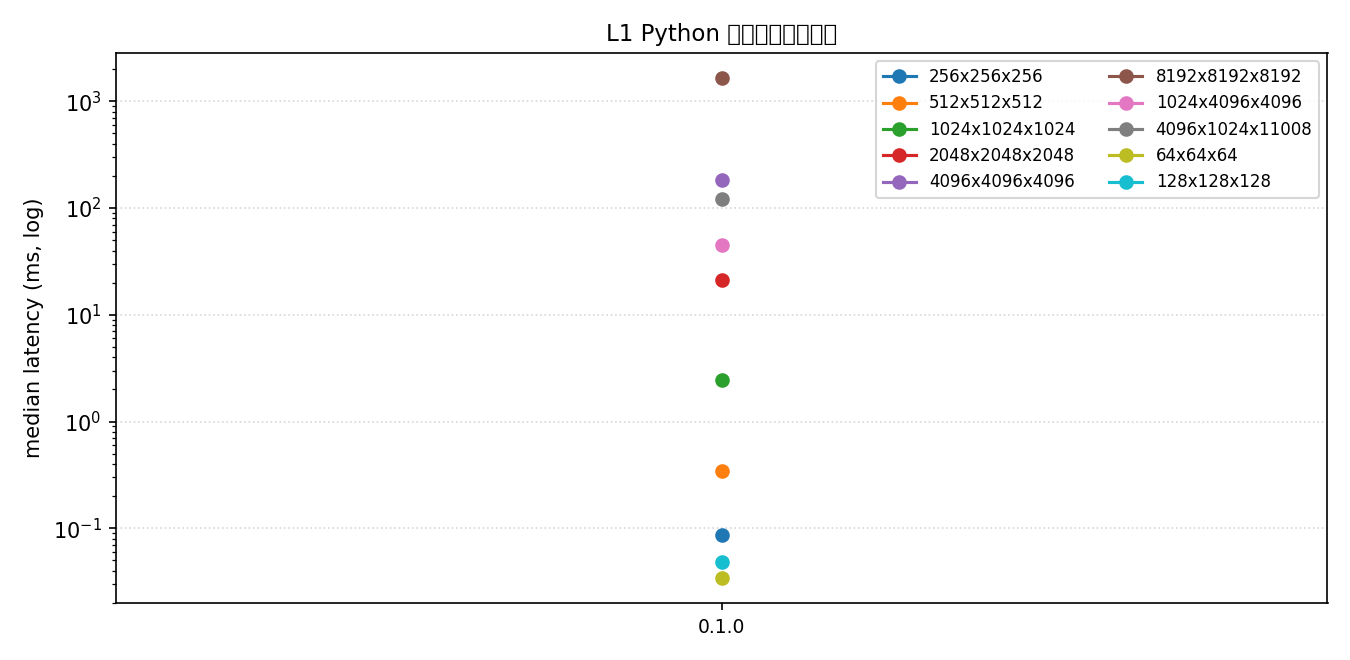
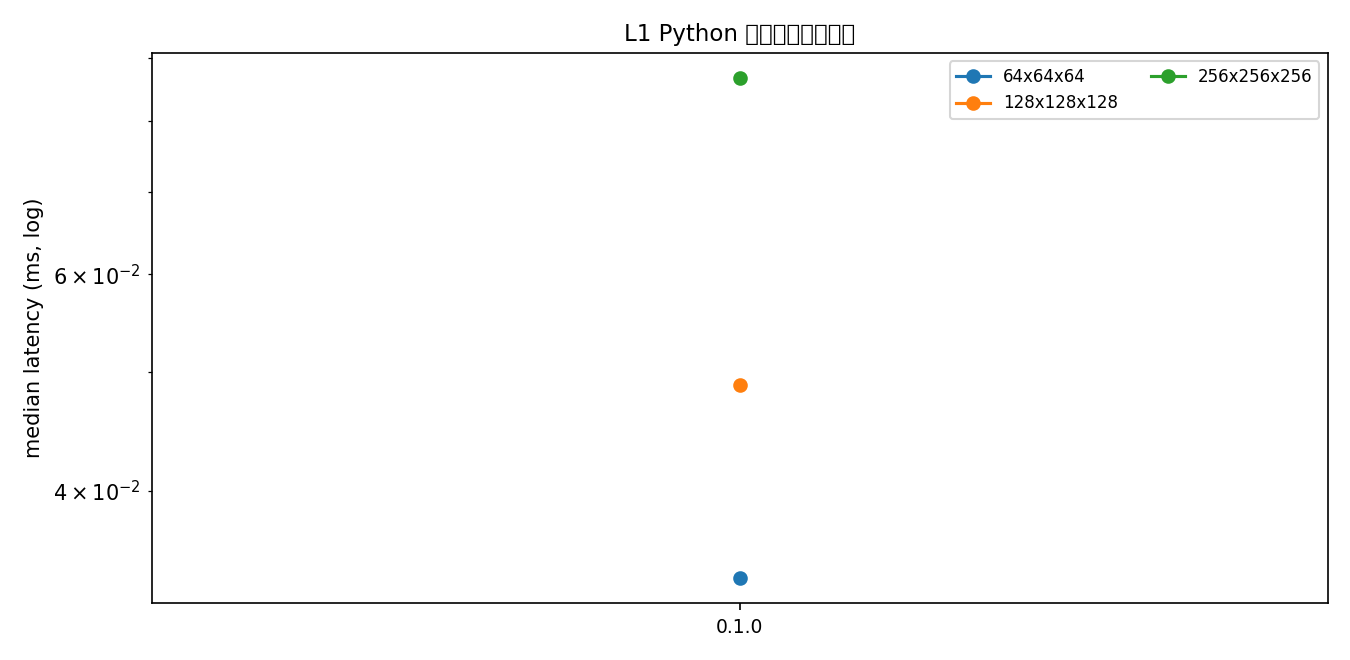
bench(gemm): regenerate the sample pages from the clean result set
an earlier python-tier run measured on a busy device had resurfaced
through a stale copy in the bind mount; the pages now render exactly
the two committed sample documents

diff --git a/docs/benchmarks/gemm-fp32.md b/docs/benchmarks/gemm-fp32.md
@@ -7,23 +7,9 @@
 
 | 形状 (m×k×n) | 基线 ms | flash-train ms | 加速比 |
 |---|---:|---:|---:|
-| 64x64x64 | 0.021 | 0.040 | x0.54 |
-| 64x64x64 | 0.021 | 0.034 | x0.63 |
 | 64x64x64 | 0.019 | 0.034 | x0.56 |
-| 128x128x128 | 0.019 | 0.061 | x0.31 |
-| 128x128x128 | 0.019 | 0.050 | x0.38 |
 | 128x128x128 | 0.017 | 0.049 | x0.35 |
-| 256x256x256 | 0.022 | 0.090 | x0.25 |
-| 256x256x256 | 0.021 | 0.184 | x0.12 |
-| 256x256x256 | 0.019 | 0.089 | x0.22 |
 | 256x256x256 | 0.019 | 0.087 | x0.22 |
-| 512x512x512 | 0.031 | 0.345 | x0.09 |
-| 1024x1024x1024 | 0.078 | 2.460 | x0.03 |
-| 2048x2048x2048 | 0.462 | 21.084 | x0.02 |
-| 1024x4096x4096 | 0.922 | 45.200 | x0.02 |
-| 4096x1024x11008 | 2.245 | 122.401 | x0.02 |
-| 4096x4096x4096 | 3.356 | 182.931 | x0.02 |
-| 8192x8192x8192 | 25.174 | 1653.196 | x0.01 |
 
 ![L1 Python 便利层（端到端）](gemm-fp32-convenience-python.png)
 

diff --git a/docs/benchmarks/gemm-fp32-curve.md b/docs/benchmarks/gemm-fp32-curve.md
@@ -11,13 +11,6 @@
 | 64x64x64 | 0.034 |
 | 128x128x128 | 0.049 |
 | 256x256x256 | 0.087 |
-| 512x512x512 | 0.345 |
-| 1024x1024x1024 | 2.460 |
-| 2048x2048x2048 | 21.084 |
-| 1024x4096x4096 | 45.200 |
-| 4096x1024x11008 | 122.401 |
-| 4096x4096x4096 | 182.931 |
-| 8192x8192x8192 | 1653.196 |
 
 ![L1 Python 便利层（端到端） 曲线](gemm-fp32-convenience-python-curve.png)
 
